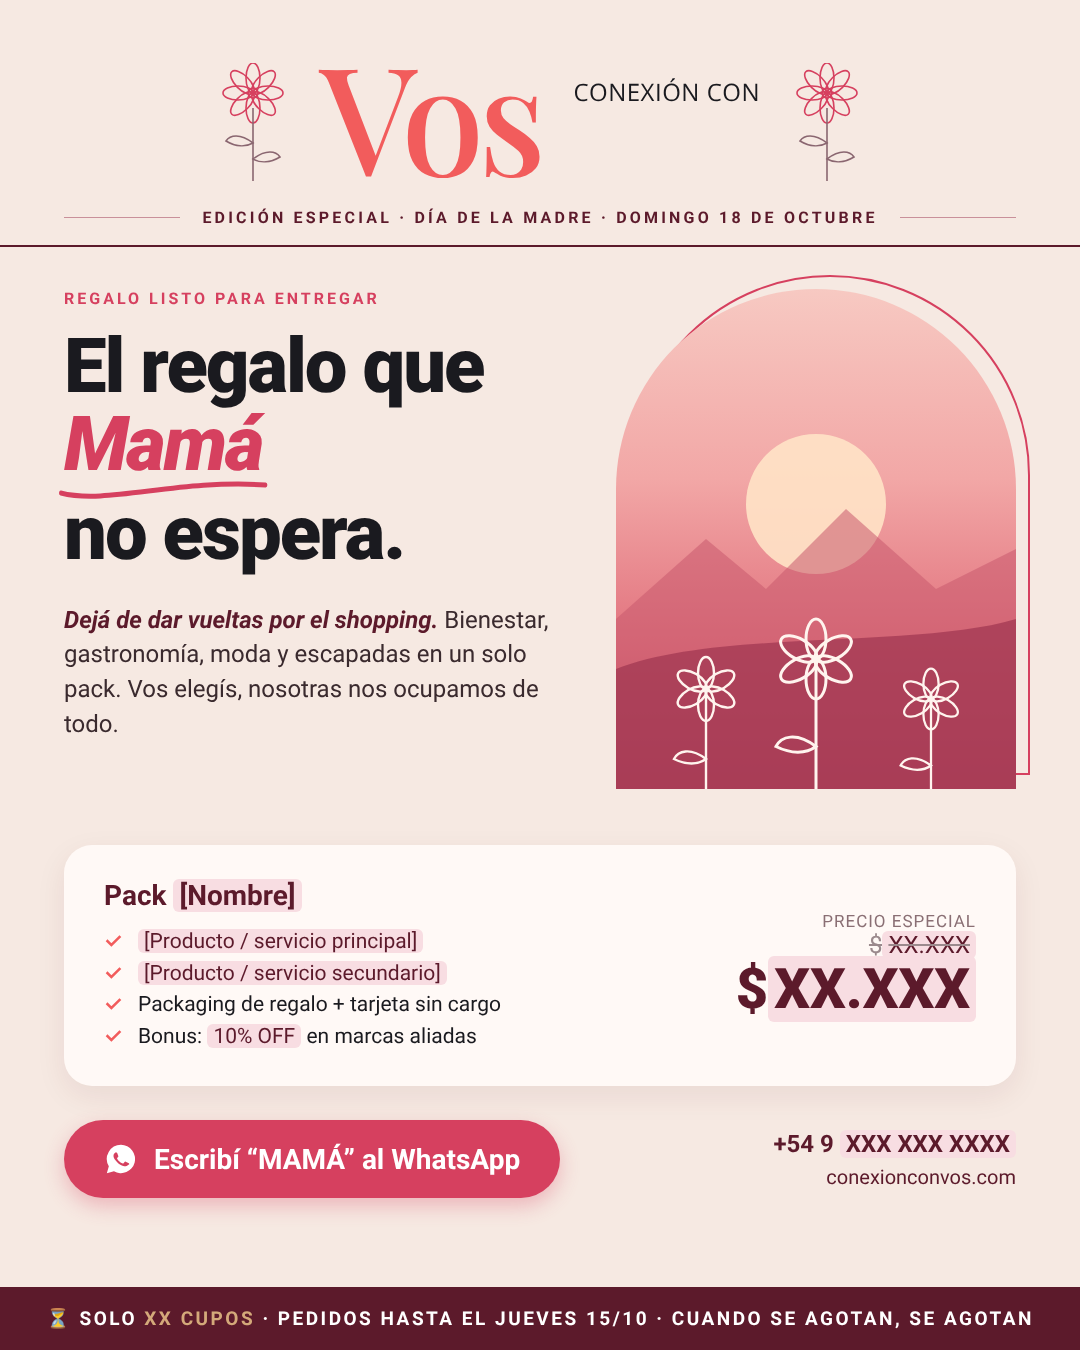
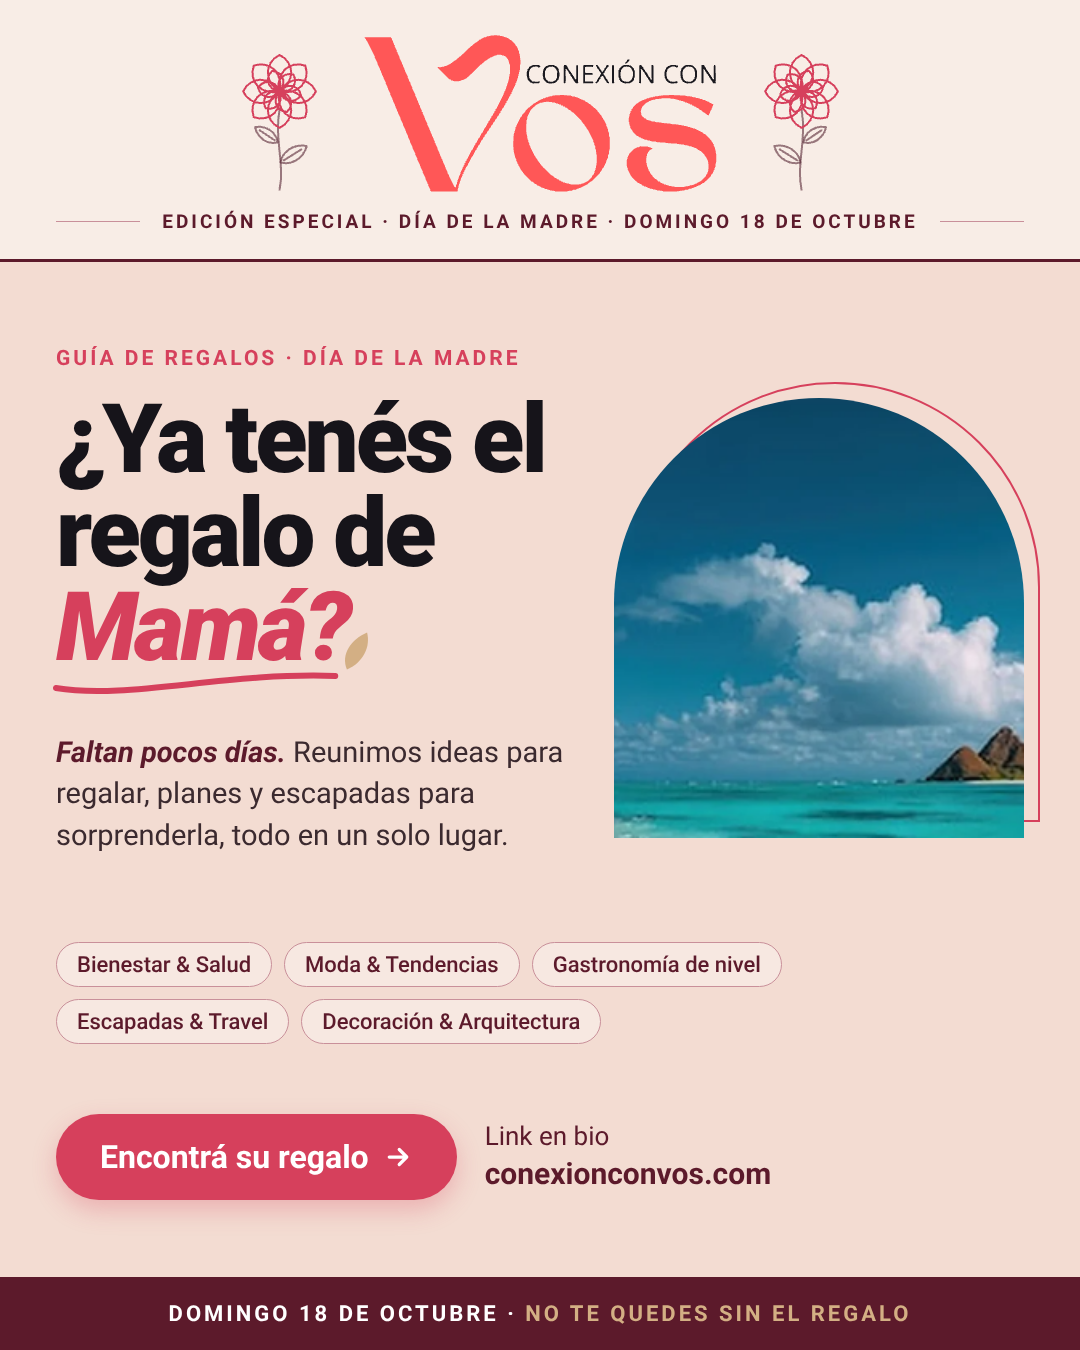
Rediseñar flyers Día de la Madre siguiendo la web de Conexión con Vos
Logo y foto reales, paleta de la página, sin marcadores de posición y con CTA a conexionconvos.com.

Claude-Session: https://claude.ai/code/session_018FtUhY4eTmcX1tWcFtydxy

diff --git a/flyers/flyer-emocional.html b/flyers/flyer-emocional.html
@@ -1,17 +1,6 @@
-<!doctype html><html lang="es"><head><meta charset="utf-8"><title>Flyer Emocional</title><link rel="stylesheet" href="flyer.css"></head><body><div class="flyer">
-<div class="brand"><svg class="flower" viewBox="0 0 62 120" fill="none" stroke-width="1.6"><g stroke="#D6405F">
-<circle cx="31" cy="30" r="5"/><ellipse cx="31" cy="15" rx="7" ry="15" transform="rotate(0 31 30)"/><ellipse cx="31" cy="15" rx="7" ry="15" transform="rotate(45 31 30)"/><ellipse cx="31" cy="15" rx="7" ry="15" transform="rotate(90 31 30)"/><ellipse cx="31" cy="15" rx="7" ry="15" transform="rotate(135 31 30)"/><ellipse cx="31" cy="15" rx="7" ry="15" transform="rotate(180 31 30)"/><ellipse cx="31" cy="15" rx="7" ry="15" transform="rotate(225 31 30)"/><ellipse cx="31" cy="15" rx="7" ry="15" transform="rotate(270 31 30)"/><ellipse cx="31" cy="15" rx="7" ry="15" transform="rotate(315 31 30)"/></g>
-<g stroke="#8A6670"><path d="M31 45 V118"/><path d="M31 80 C18 70 8 72 4 78 C14 84 24 84 31 80Z"/><path d="M31 96 C44 86 54 88 58 94 C48 100 38 100 31 96Z"/></g></svg><div class="logo"><span class="v">Vos</span><span class="cc">CONEXIÓN CON</span></div><svg class="flower" viewBox="0 0 62 120" fill="none" stroke-width="1.6"><g stroke="#D6405F">
-<circle cx="31" cy="30" r="5"/><ellipse cx="31" cy="15" rx="7" ry="15" transform="rotate(0 31 30)"/><ellipse cx="31" cy="15" rx="7" ry="15" transform="rotate(45 31 30)"/><ellipse cx="31" cy="15" rx="7" ry="15" transform="rotate(90 31 30)"/><ellipse cx="31" cy="15" rx="7" ry="15" transform="rotate(135 31 30)"/><ellipse cx="31" cy="15" rx="7" ry="15" transform="rotate(180 31 30)"/><ellipse cx="31" cy="15" rx="7" ry="15" transform="rotate(225 31 30)"/><ellipse cx="31" cy="15" rx="7" ry="15" transform="rotate(270 31 30)"/><ellipse cx="31" cy="15" rx="7" ry="15" transform="rotate(315 31 30)"/></g>
-<g stroke="#8A6670"><path d="M31 45 V118"/><path d="M31 80 C18 70 8 72 4 78 C14 84 24 84 31 80Z"/><path d="M31 96 C44 86 54 88 58 94 C48 100 38 100 31 96Z"/></g></svg></div>
-<div class="rule"><span>EDICIÓN ESPECIAL · DÍA DE LA MADRE · DOMINGO 18 DE OCTUBRE</span></div>
-<div class="bar"></div>
-<div class="hero"><div><div class="kicker">De Conexión con Vos, para todas las mamás</div><h1>Ella te dio todo su tiempo.<br><em>Devolvéselo.<svg viewBox="0 0 300 28" preserveAspectRatio="none"><path d="M4 18 C70 30 170 4 296 10" stroke="#D6405F" stroke-width="5" fill="none" stroke-linecap="round"/></svg></em></h1><p class="lead"><b>Regalale una pausa pensada para ella.</b> Bienestar, sabores y escapadas elegidos con el mismo cuidado con el que ella te eligió siempre.</p></div>
-<div class="arch"><div class="frame"></div><div class="img"><svg viewBox="0 0 400 500" preserveAspectRatio="xMidYMid slice">
-<circle cx="200" cy="215" r="70" fill="#FFE3C7" opacity=".9"/>
-<path d="M0 330 L90 250 L150 300 L230 220 L320 300 L400 260 V500 H0Z" fill="#C85A6E" opacity=".55"/>
-<path d="M0 380 C100 340 300 360 400 330 V500 H0Z" fill="#9E3550" opacity=".7"/>
-<g fill="none" stroke="#FFF4EE" stroke-width="2.4"><g transform="translate(90 400) scale(1)"><path d="M0 0 V120"/><ellipse cx="0" cy="-16" rx="8" ry="16" transform="rotate(0)"/><ellipse cx="0" cy="-16" rx="8" ry="16" transform="rotate(60)"/><ellipse cx="0" cy="-16" rx="8" ry="16" transform="rotate(120)"/><ellipse cx="0" cy="-16" rx="8" ry="16" transform="rotate(180)"/><ellipse cx="0" cy="-16" rx="8" ry="16" transform="rotate(240)"/><ellipse cx="0" cy="-16" rx="8" ry="16" transform="rotate(300)"/><path d="M0 70 C-16 58 -28 62 -32 70 C-20 76 -8 76 0 70Z"/></g><g transform="translate(200 370) scale(1.25)"><path d="M0 0 V120"/><ellipse cx="0" cy="-16" rx="8" ry="16" transform="rotate(0)"/><ellipse cx="0" cy="-16" rx="8" ry="16" transform="rotate(60)"/><ellipse cx="0" cy="-16" rx="8" ry="16" transform="rotate(120)"/><ellipse cx="0" cy="-16" rx="8" ry="16" transform="rotate(180)"/><ellipse cx="0" cy="-16" rx="8" ry="16" transform="rotate(240)"/><ellipse cx="0" cy="-16" rx="8" ry="16" transform="rotate(300)"/><path d="M0 70 C-16 58 -28 62 -32 70 C-20 76 -8 76 0 70Z"/></g><g transform="translate(315 410) scale(0.95)"><path d="M0 0 V120"/><ellipse cx="0" cy="-16" rx="8" ry="16" transform="rotate(0)"/><ellipse cx="0" cy="-16" rx="8" ry="16" transform="rotate(60)"/><ellipse cx="0" cy="-16" rx="8" ry="16" transform="rotate(120)"/><ellipse cx="0" cy="-16" rx="8" ry="16" transform="rotate(180)"/><ellipse cx="0" cy="-16" rx="8" ry="16" transform="rotate(240)"/><ellipse cx="0" cy="-16" rx="8" ry="16" transform="rotate(300)"/><path d="M0 70 C-16 58 -28 62 -32 70 C-20 76 -8 76 0 70Z"/></g></g></svg></div></div></div>
-<div class="offer"><div><h3>Experiencia <span class="ph">[Nombre]</span></h3><ul><li>Día de bienestar en <span class="ph">[spa / centro]</span></li><li>Brunch para dos en <span class="ph">[restaurante]</span></li><li>Obsequio sorpresa + tarjeta con tu mensaje</li></ul></div><div class="price"><small>Desde</small><strong>$<span class="ph">XX.XXX</span></strong></div></div>
-<div class="cta"><span class="btn"><svg viewBox="0 0 24 24" fill="#fff"><path d="M12 2a10 10 0 0 0-8.6 15.1L2 22l5-1.3A10 10 0 1 0 12 2zm5.2 13.9c-.2.6-1.3 1.2-1.8 1.2-.5.1-1 .1-1.7-.1-.4-.1-.9-.3-1.5-.6-2.6-1.1-4.3-3.8-4.5-4-.1-.2-1-1.4-1-2.6s.6-1.8.9-2.1c.2-.2.5-.3.6-.3h.5c.1 0 .4 0 .6.4l.8 2c.1.1.1.3 0 .5l-.3.5-.4.4c-.1.1-.3.3-.1.6.2.3.7 1.2 1.6 1.9 1.1 1 2 1.3 2.3 1.4.3.1.5.1.6-.1l.9-1c.2-.3.4-.2.6-.1l1.9.9c.3.1.5.2.5.3.1.2.1.7-.1 1.2z"/></svg>Escribinos y armamos su regalo</span><div class="contact"><b>+54 9 <span class="ph">XXX XXX XXXX</span></b><br>conexionconvos.com</div></div>
-<p class="foot">Porque el mejor regalo no se envuelve: se vive juntas. 🌸</p></div></body></html>
+<!doctype html><html lang="es"><head><meta charset="utf-8"><title>Flyer Emocional</title><link rel="stylesheet" href="flyer.css"></head><body>
+<header><img class="logo" src="assets/logo.png" alt="Conexión con Vos"><div class="rule"><span>EDICIÓN ESPECIAL · DÍA DE LA MADRE · DOMINGO 18 DE OCTUBRE</span></div></header>
+<main><div class="kicker">De Conexión con Vos, para todas las mamás</div>
+<div class="hero"><div><h1>¡Feliz D<span style="position:relative">í<svg class="petal" style="left:16px;top:-2px;width:34px;height:24px" viewBox="0 0 44 30"><path d="M4 26 C6 10 22 2 40 4 C36 18 22 28 4 26Z" fill="#E98A98"/><path d="M4 26 C14 18 26 10 40 4" stroke="#F3DCD2" stroke-width="1.5" fill="none"/></svg></span>a,<br><em>Mamá!<svg class="swash" viewBox="0 0 300 30" preserveAspectRatio="none"><path d="M4 20 C80 32 180 4 296 8" stroke="#D6405C" stroke-width="6" fill="none" stroke-linecap="round"/></svg><svg class="petal" style="right:-30px;bottom:18px;transform:rotate(-30deg)" viewBox="0 0 44 30"><path d="M4 26 C6 10 22 2 40 4 C36 18 22 28 4 26Z" fill="#D3AF84"/></svg></em></h1><p class="lead"><b>Mamá es la nota de tapa.</b> Ideas para regalar, planes para compartir y lugares para festejar el domingo 18.</p></div><div class="arch"><div class="frame"></div><img src="assets/foto-arco.png" alt=""></div></div>
+<div class="chips"><span>Bienestar &amp; Salud</span><span>Moda &amp; Tendencias</span><span>Gastronomía de nivel</span><span>Escapadas &amp; Travel</span><span>Decoración &amp; Arquitectura</span></div>
+<div class="cta"><span class="btn">Elegí por dónde empezar<svg width="30" height="30" viewBox="0 0 24 24" fill="none" stroke="#fff" stroke-width="2.6" stroke-linecap="round" stroke-linejoin="round"><path d="M5 12h14M13 6l6 6-6 6"/></svg></span><div class="url">Link en bio<b>conexionconvos.com</b></div></div></main><div class="strip">Domingo 18 de octubre · <i>Feliz día a todas las mamás</i></div></body></html>

diff --git a/flyers/flyer-comercial.html b/flyers/flyer-comercial.html
@@ -1,17 +1,6 @@
-<!doctype html><html lang="es"><head><meta charset="utf-8"><title>Flyer Comercial</title><link rel="stylesheet" href="flyer.css"></head><body><div class="flyer">
-<div class="brand"><svg class="flower" viewBox="0 0 62 120" fill="none" stroke-width="1.6"><g stroke="#D6405F">
-<circle cx="31" cy="30" r="5"/><ellipse cx="31" cy="15" rx="7" ry="15" transform="rotate(0 31 30)"/><ellipse cx="31" cy="15" rx="7" ry="15" transform="rotate(45 31 30)"/><ellipse cx="31" cy="15" rx="7" ry="15" transform="rotate(90 31 30)"/><ellipse cx="31" cy="15" rx="7" ry="15" transform="rotate(135 31 30)"/><ellipse cx="31" cy="15" rx="7" ry="15" transform="rotate(180 31 30)"/><ellipse cx="31" cy="15" rx="7" ry="15" transform="rotate(225 31 30)"/><ellipse cx="31" cy="15" rx="7" ry="15" transform="rotate(270 31 30)"/><ellipse cx="31" cy="15" rx="7" ry="15" transform="rotate(315 31 30)"/></g>
-<g stroke="#8A6670"><path d="M31 45 V118"/><path d="M31 80 C18 70 8 72 4 78 C14 84 24 84 31 80Z"/><path d="M31 96 C44 86 54 88 58 94 C48 100 38 100 31 96Z"/></g></svg><div class="logo"><span class="v">Vos</span><span class="cc">CONEXIÓN CON</span></div><svg class="flower" viewBox="0 0 62 120" fill="none" stroke-width="1.6"><g stroke="#D6405F">
-<circle cx="31" cy="30" r="5"/><ellipse cx="31" cy="15" rx="7" ry="15" transform="rotate(0 31 30)"/><ellipse cx="31" cy="15" rx="7" ry="15" transform="rotate(45 31 30)"/><ellipse cx="31" cy="15" rx="7" ry="15" transform="rotate(90 31 30)"/><ellipse cx="31" cy="15" rx="7" ry="15" transform="rotate(135 31 30)"/><ellipse cx="31" cy="15" rx="7" ry="15" transform="rotate(180 31 30)"/><ellipse cx="31" cy="15" rx="7" ry="15" transform="rotate(225 31 30)"/><ellipse cx="31" cy="15" rx="7" ry="15" transform="rotate(270 31 30)"/><ellipse cx="31" cy="15" rx="7" ry="15" transform="rotate(315 31 30)"/></g>
-<g stroke="#8A6670"><path d="M31 45 V118"/><path d="M31 80 C18 70 8 72 4 78 C14 84 24 84 31 80Z"/><path d="M31 96 C44 86 54 88 58 94 C48 100 38 100 31 96Z"/></g></svg></div>
-<div class="rule"><span>EDICIÓN ESPECIAL · DÍA DE LA MADRE · DOMINGO 18 DE OCTUBRE</span></div>
-<div class="bar"></div>
-<div class="hero"><div><div class="kicker">Regalo listo para entregar</div><h1>El regalo que <em>Mamá<svg viewBox="0 0 300 28" preserveAspectRatio="none"><path d="M4 18 C70 30 170 4 296 10" stroke="#D6405F" stroke-width="5" fill="none" stroke-linecap="round"/></svg></em><br>no espera.</h1><p class="lead"><b>Dejá de dar vueltas por el shopping.</b> Bienestar, gastronomía, moda y escapadas en un solo pack. Vos elegís, nosotras nos ocupamos de todo.</p></div>
-<div class="arch"><div class="frame"></div><div class="img"><svg viewBox="0 0 400 500" preserveAspectRatio="xMidYMid slice">
-<circle cx="200" cy="215" r="70" fill="#FFE3C7" opacity=".9"/>
-<path d="M0 330 L90 250 L150 300 L230 220 L320 300 L400 260 V500 H0Z" fill="#C85A6E" opacity=".55"/>
-<path d="M0 380 C100 340 300 360 400 330 V500 H0Z" fill="#9E3550" opacity=".7"/>
-<g fill="none" stroke="#FFF4EE" stroke-width="2.4"><g transform="translate(90 400) scale(1)"><path d="M0 0 V120"/><ellipse cx="0" cy="-16" rx="8" ry="16" transform="rotate(0)"/><ellipse cx="0" cy="-16" rx="8" ry="16" transform="rotate(60)"/><ellipse cx="0" cy="-16" rx="8" ry="16" transform="rotate(120)"/><ellipse cx="0" cy="-16" rx="8" ry="16" transform="rotate(180)"/><ellipse cx="0" cy="-16" rx="8" ry="16" transform="rotate(240)"/><ellipse cx="0" cy="-16" rx="8" ry="16" transform="rotate(300)"/><path d="M0 70 C-16 58 -28 62 -32 70 C-20 76 -8 76 0 70Z"/></g><g transform="translate(200 370) scale(1.25)"><path d="M0 0 V120"/><ellipse cx="0" cy="-16" rx="8" ry="16" transform="rotate(0)"/><ellipse cx="0" cy="-16" rx="8" ry="16" transform="rotate(60)"/><ellipse cx="0" cy="-16" rx="8" ry="16" transform="rotate(120)"/><ellipse cx="0" cy="-16" rx="8" ry="16" transform="rotate(180)"/><ellipse cx="0" cy="-16" rx="8" ry="16" transform="rotate(240)"/><ellipse cx="0" cy="-16" rx="8" ry="16" transform="rotate(300)"/><path d="M0 70 C-16 58 -28 62 -32 70 C-20 76 -8 76 0 70Z"/></g><g transform="translate(315 410) scale(0.95)"><path d="M0 0 V120"/><ellipse cx="0" cy="-16" rx="8" ry="16" transform="rotate(0)"/><ellipse cx="0" cy="-16" rx="8" ry="16" transform="rotate(60)"/><ellipse cx="0" cy="-16" rx="8" ry="16" transform="rotate(120)"/><ellipse cx="0" cy="-16" rx="8" ry="16" transform="rotate(180)"/><ellipse cx="0" cy="-16" rx="8" ry="16" transform="rotate(240)"/><ellipse cx="0" cy="-16" rx="8" ry="16" transform="rotate(300)"/><path d="M0 70 C-16 58 -28 62 -32 70 C-20 76 -8 76 0 70Z"/></g></g></svg></div></div></div>
-<div class="offer"><div><h3>Pack <span class="ph">[Nombre]</span></h3><ul><li><span class="ph">[Producto / servicio principal]</span></li><li><span class="ph">[Producto / servicio secundario]</span></li><li>Packaging de regalo + tarjeta sin cargo</li><li>Bonus: <span class="ph">10% OFF</span> en marcas aliadas</li></ul></div><div class="price"><small>Precio especial</small><s>$<span class="ph">XX.XXX</span></s><strong>$<span class="ph">XX.XXX</span></strong></div></div>
-<div class="cta"><span class="btn"><svg viewBox="0 0 24 24" fill="#fff"><path d="M12 2a10 10 0 0 0-8.6 15.1L2 22l5-1.3A10 10 0 1 0 12 2zm5.2 13.9c-.2.6-1.3 1.2-1.8 1.2-.5.1-1 .1-1.7-.1-.4-.1-.9-.3-1.5-.6-2.6-1.1-4.3-3.8-4.5-4-.1-.2-1-1.4-1-2.6s.6-1.8.9-2.1c.2-.2.5-.3.6-.3h.5c.1 0 .4 0 .6.4l.8 2c.1.1.1.3 0 .5l-.3.5-.4.4c-.1.1-.3.3-.1.6.2.3.7 1.2 1.6 1.9 1.1 1 2 1.3 2.3 1.4.3.1.5.1.6-.1l.9-1c.2-.3.4-.2.6-.1l1.9.9c.3.1.5.2.5.3.1.2.1.7-.1 1.2z"/></svg>Escribí “MAMÁ” al WhatsApp</span><div class="contact"><b>+54 9 <span class="ph">XXX XXX XXXX</span></b><br>conexionconvos.com</div></div>
-<div class="strip">⏳ Solo <i>XX cupos</i> · Pedidos hasta el jueves 15/10 · Cuando se agotan, se agotan</div></div></body></html>
+<!doctype html><html lang="es"><head><meta charset="utf-8"><title>Flyer Comercial</title><link rel="stylesheet" href="flyer.css"></head><body>
+<header><img class="logo" src="assets/logo.png" alt="Conexión con Vos"><div class="rule"><span>EDICIÓN ESPECIAL · DÍA DE LA MADRE · DOMINGO 18 DE OCTUBRE</span></div></header>
+<main><div class="kicker">Guía de regalos · Día de la Madre</div>
+<div class="hero"><div><h1 class="q">¿Ya tenés el regalo de <em>Mamá?<svg class="swash" viewBox="0 0 300 30" preserveAspectRatio="none"><path d="M4 20 C80 32 180 4 296 8" stroke="#D6405C" stroke-width="6" fill="none" stroke-linecap="round"/></svg><svg class="petal" style="right:-30px;bottom:18px;transform:rotate(-30deg)" viewBox="0 0 44 30"><path d="M4 26 C6 10 22 2 40 4 C36 18 22 28 4 26Z" fill="#D3AF84"/></svg></em></h1><p class="lead"><b>Faltan pocos días.</b> Reunimos ideas para regalar, planes y escapadas para sorprenderla, todo en un solo lugar.</p></div><div class="arch"><div class="frame"></div><img src="assets/foto-arco.png" alt=""></div></div>
+<div class="chips"><span>Bienestar &amp; Salud</span><span>Moda &amp; Tendencias</span><span>Gastronomía de nivel</span><span>Escapadas &amp; Travel</span><span>Decoración &amp; Arquitectura</span></div>
+<div class="cta"><span class="btn">Encontrá su regalo<svg width="30" height="30" viewBox="0 0 24 24" fill="none" stroke="#fff" stroke-width="2.6" stroke-linecap="round" stroke-linejoin="round"><path d="M5 12h14M13 6l6 6-6 6"/></svg></span><div class="url">Link en bio<b>conexionconvos.com</b></div></div></main><div class="strip">Domingo 18 de octubre · <i>No te quedes sin el regalo</i></div></body></html>

diff --git a/flyers/flyer.css b/flyers/flyer.css
@@ -1,48 +1,31 @@
-@import url('https://fonts.googleapis.com/css2?family=Roboto:ital,wght@0,400;0,500;0,700;0,900;1,700;1,900&family=Playfair+Display:wght@500;600&family=Open+Sans:wght@400;600&display=swap');
-:root{--bg:#F6E9E2;--ink:#1A1A1F;--rasp:#D6405F;--coral:#F25C5C;--wine:#5C1A2B;--gold:#D4A97A;--card:#FFF9F6}
+@import url('https://fonts.googleapis.com/css2?family=Roboto:ital,wght@0,400;0,500;0,700;0,900;1,700;1,900&display=swap');
+:root{--head:#F8EDE6;--hero:#F3DCD2;--ink:#16141A;--rasp:#D6405C;--coral:#FF5757;--wine:#5C1A2B;--gold:#D3AF84;--line:#C9909A}
 *{box-sizing:border-box;margin:0;padding:0}
-html,body{width:1080px;height:1350px;background:var(--bg);overflow:hidden}
+html,body{width:1080px;height:1350px;overflow:hidden;background:var(--hero)}
 body{font-family:'Roboto',sans-serif;color:var(--ink);position:relative}
-.flyer{position:absolute;inset:0;padding:48px 64px}
-/* header */
-.brand{display:flex;justify-content:center;align-items:center;gap:36px;height:150px}
-.brand svg.flower{width:62px;height:120px}
-.logo{position:relative;width:440px;height:140px}
-.logo .v{font-family:'Playfair Display',serif;font-weight:500;color:var(--coral);font-size:150px;line-height:1;position:absolute;left:0;top:-14px;letter-spacing:-6px}
-.logo .cc{font-family:'Open Sans',sans-serif;color:var(--ink);font-size:24px;position:absolute;right:0;top:22px;letter-spacing:.5px}
-.rule{display:flex;align-items:center;gap:22px;margin:10px 0 0}
-.rule::before,.rule::after{content:"";flex:1;height:1px;background:#C9909A}
-.rule span{font-weight:700;font-size:16px;letter-spacing:3.2px;color:var(--wine);white-space:nowrap}
-.bar{height:2px;background:var(--wine);margin:18px -64px 0}
-/* hero */
-.hero{display:grid;grid-template-columns:1fr 400px;gap:32px;margin-top:42px}
-.kicker{font-weight:700;font-size:16px;letter-spacing:3px;color:var(--rasp);text-transform:uppercase}
-h1{font-weight:900;font-size:76px;line-height:1.02;letter-spacing:-2px;margin-top:20px}
-h1 em{display:inline-block;font-style:italic;color:var(--rasp);position:relative;padding-bottom:12px}
-h1 em svg{position:absolute;left:-6px;bottom:-8px;width:calc(100% + 12px);height:28px}
-.lead{font-size:24px;line-height:1.45;margin-top:30px;color:#3a2a2e}
+header{background:var(--head);padding:34px 56px 0;border-bottom:3px solid var(--wine)}
+.logo{display:block;margin:0 auto;width:620px}
+.rule{display:flex;align-items:center;gap:22px;padding:14px 0 26px}
+.rule::before,.rule::after{content:"";flex:1;height:1px;background:var(--line)}
+.rule span{font-weight:700;font-size:19px;letter-spacing:3px;color:var(--wine);white-space:nowrap}
+main{padding:84px 56px 0}
+.kicker{font-weight:700;font-size:21px;letter-spacing:3px;color:var(--rasp);text-transform:uppercase}
+.hero{display:grid;grid-template-columns:1fr 410px;gap:24px;align-items:start;margin-top:22px}
+h1{font-weight:900;font-size:118px;line-height:.98;letter-spacing:-4px}
+h1.q{font-size:96px;letter-spacing:-3px}
+h1 em{position:relative;display:inline-block;font-style:italic;color:var(--rasp);padding-bottom:10px}
+h1 em .swash{position:absolute;left:-4px;bottom:-14px;width:calc(100% - 6px);height:30px}
+h1 .petal{position:absolute;width:44px;height:30px}
+.arch{position:relative;width:410px;height:440px;margin-top:6px}
+.arch .frame{position:absolute;inset:-16px -16px 16px 16px;border:2px solid var(--rasp);border-radius:205px 205px 0 0}
+.arch img{position:absolute;inset:0;width:100%;height:100%;object-fit:cover;border-radius:205px 205px 0 0}
+.lead{font-size:29px;line-height:1.42;color:#3B2A2F;margin-top:48px}
 .lead b{font-style:italic;color:var(--wine)}
-.arch{position:relative;height:500px}
-.arch .frame{position:absolute;inset:-14px -14px 14px 14px;border:2px solid var(--rasp);border-radius:200px 200px 0 0}
-.arch .img{position:absolute;inset:0;border-radius:200px 200px 0 0;overflow:hidden;background:linear-gradient(180deg,#F7C9C2 0%,#F2A7A6 38%,#E2747F 70%,#B9445E 100%)}
-.arch .img svg{position:absolute;inset:0;width:100%;height:100%}
-/* offer */
-.offer{background:var(--card);border-radius:28px;padding:34px 40px;margin-top:56px;box-shadow:0 10px 30px rgba(92,26,43,.08);display:grid;grid-template-columns:1fr auto;gap:28px;align-items:center}
-.offer h3{font-size:28px;font-weight:700;color:var(--wine)}
-.offer ul{list-style:none;margin-top:14px}
-.offer li{font-size:21px;line-height:1.5;padding-left:34px;position:relative}
-.offer li::before{content:"✓";position:absolute;left:0;color:var(--coral);font-weight:900}
-.price{text-align:right}
-.price small{display:block;font-size:17px;color:#8a6f74;letter-spacing:1px;text-transform:uppercase}
-.price s{font-size:24px;color:#9b8a8d}
-.price strong{display:block;font-size:56px;font-weight:900;color:var(--wine);line-height:1.1}
-.ph{background:#F8DDE2;border-radius:6px;padding:0 6px;color:var(--wine)}
-/* cta */
-.cta{display:flex;align-items:center;justify-content:space-between;margin-top:34px}
-.btn{display:inline-flex;align-items:center;gap:16px;background:var(--rasp);color:#fff;font-weight:700;font-size:28px;padding:22px 40px;border-radius:999px;box-shadow:0 8px 20px rgba(214,64,95,.3)}
-.btn svg{width:34px;height:34px}
-.contact{text-align:right;font-size:20px;color:var(--wine);line-height:1.5}
-.contact b{font-size:24px}
-.strip{position:absolute;left:0;right:0;bottom:0;background:var(--wine);color:#fff;text-align:center;font-weight:700;letter-spacing:2.5px;font-size:19px;padding:20px;text-transform:uppercase}
+.chips{display:flex;flex-wrap:wrap;gap:12px;margin-top:86px}
+.chips span{font-weight:500;font-size:22px;color:var(--wine);border:1.5px solid var(--line);border-radius:999px;padding:9px 20px;background:rgba(255,255,255,.35)}
+.cta{display:flex;align-items:center;gap:28px;margin-top:70px}
+.btn{display:inline-flex;align-items:center;gap:14px;background:var(--rasp);color:#fff;font-weight:700;font-size:32px;padding:24px 44px;border-radius:999px;box-shadow:0 10px 24px rgba(214,64,92,.28)}
+.url{font-size:26px;color:var(--wine);line-height:1.35}
+.url b{display:block;font-size:30px}
+.strip{position:absolute;left:0;right:0;bottom:0;background:var(--wine);color:#fff;text-align:center;font-weight:700;letter-spacing:3px;font-size:22px;padding:24px;text-transform:uppercase}
 .strip i{color:var(--gold);font-style:normal}
-.foot{margin-top:48px;text-align:center;font-style:italic;font-size:20px;color:var(--wine)}
